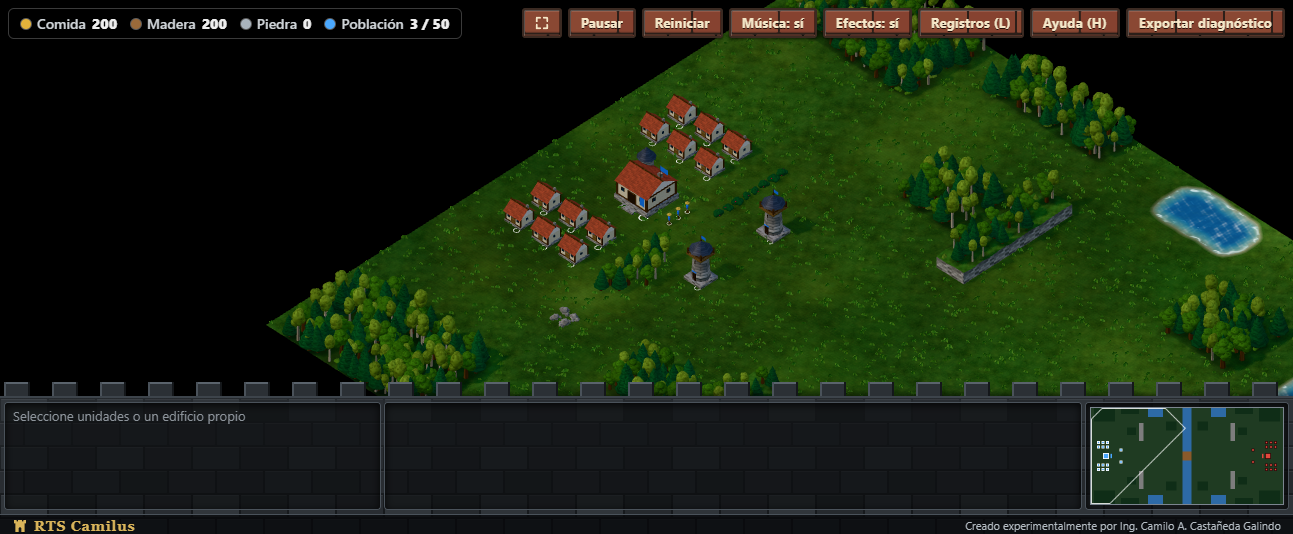
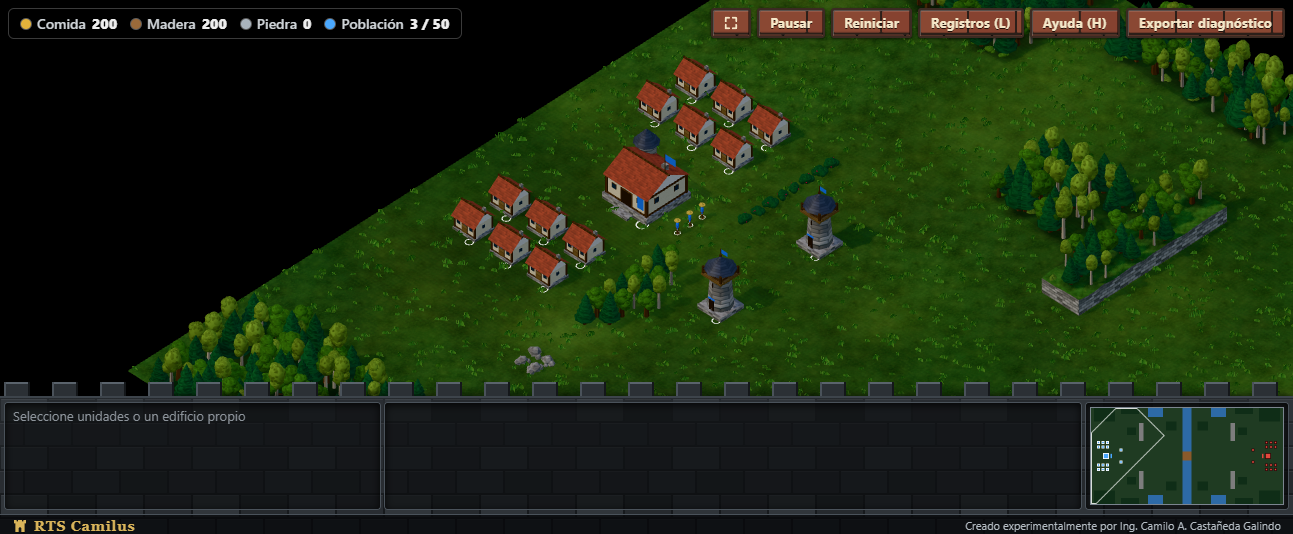
Etapa 8: zoom maximo 7, zoom inicial 3 y ataque/alcance en la ficha de seleccion

diff --git a/tests/unit/p8-identidad.test.ts b/tests/unit/p8-identidad.test.ts
@@ -7,7 +7,7 @@ import { createInitialState } from "../../src/core/state";
 import type { GameState } from "../../src/core/types";
 import { CameraRig, INITIAL_ZOOM, ZOOM_MAX, ZOOM_MIN } from "../../src/input/camera-rig";
 import { CURSOR_HOTSPOT, CURSOR_SIZE, cursorCss, cursorFor, cursorSvg, resolveRightClick, selectionCaps, type CursorKind } from "../../src/input/cursors";
-import { emptySelection } from "../../src/input/selection";
+import { combatText, describeSelection, emptySelection } from "../../src/input/selection";
 import { BRICK_BUTTON_TILE, BRICK_BUTTON_TONES, brickButtonSvg } from "../../src/ui/castle-bar";
 import { fullscreenLabel } from "../../src/ui/fullscreen";
 import { welcomeContent } from "../../src/ui/welcome";
@@ -51,6 +51,8 @@ describe("P8 vida de centros urbanos y torres", () => {
 describe("P8 cámara inicial", () => {
   it("arranca con zoom dentro de los límites, centrada en el centro urbano del jugador", () => {
     expect(INITIAL_ZOOM).toBeGreaterThan(1);
+    expect(INITIAL_ZOOM).toBe(3);
+    expect(ZOOM_MAX).toBeGreaterThan(5.5);
     expect(INITIAL_ZOOM).toBeLessThanOrEqual(ZOOM_MAX);
     const home = homeView(MAP_LAYOUT);
     const tc = MAP_LAYOUT.townCenters[0];
@@ -73,6 +75,40 @@ describe("P8 cámara inicial", () => {
     rig.reset({ x: 1, z: 1 });
     expect(rig.zoom).toBe(1);
     expect(ZOOM_MIN).toBeLessThan(1);
+  });
+});
+
+describe("P8 ataque y alcance en la ficha", () => {
+  const state = createInitialState(1);
+  const info = (id: number) => describeSelection(state, id, 0)!;
+
+  it("las unidades muestran el ataque y el alcance de su balance", () => {
+    const villager = state.units.find((u) => u.kind === "villager")!;
+    expect(info(villager.id).combat).toBe("Ataque 3 (solo defensa) · Alcance cuerpo a cuerpo");
+    const soldier = { ...villager, id: 9001, kind: "soldier" as const };
+    const archer = { ...villager, id: 9002, kind: "archer" as const };
+    const armed = { ...state, units: [...state.units, soldier, archer] } as GameState;
+    expect(describeSelection(armed, soldier.id, 0)!.combat).toBe("Ataque 10 · Alcance cuerpo a cuerpo");
+    expect(describeSelection(armed, archer.id, 0)!.combat).toBe("Ataque 8 · Alcance 5");
+  });
+
+  it("torre y centro urbano completos atacan; casa, cuartel, recursos y obras no", () => {
+    const own = (kind: string) => state.buildings.find((b) => b.owner === 0 && b.kind === kind)!;
+    expect(info(own("tower").id).combat).toBe("Ataque 8 · Alcance 5");
+    expect(info(own("townCenter").id).combat).toBe("Ataque 24 (3 × 8) · Alcance 5");
+    expect(info(own("house").id).combat).toBeNull();
+    const site = { ...own("tower"), id: 9003, complete: false, buildDone: 10 };
+    const building = { ...state, buildings: [...state.buildings, site] } as GameState;
+    expect(describeSelection(building, site.id, 0)!.combat).toBeNull();
+    expect(info(state.resourceNodes[0]!.id).combat).toBeNull();
+  });
+
+  it("el texto sale del balance y la ficha lo muestra bajo la vida", () => {
+    expect(combatText("archer")).toBe(`Ataque ${BALANCE.units.archer.damage} · Alcance ${BALANCE.units.archer.range}`);
+    expect(html).toContain("#info .info-stats");
+    const panel = readFileSync(new URL("../../src/ui/command-panel.ts", import.meta.url), "utf8");
+    expect(panel.indexOf('"vtext"')).toBeLessThan(panel.indexOf('"info-stats"'));
+    expect(panel.indexOf('"info-stats"')).toBeLessThan(panel.indexOf('"info-lines"'));
   });
 });
 

diff --git a/src/input/selection.ts b/src/input/selection.ts
@@ -1,4 +1,4 @@
-import { BALANCE } from "../content/balance";
+import { BALANCE, type UnitKind } from "../content/balance";
 import { activityOf, type Activity } from "../core/economy";
 import type { EntityId, GameState, PlayerId } from "../core/types";
 
@@ -105,6 +105,8 @@ export interface SelectionInfo {
   progress: number | null;
   /** Líneas de detalle sin repetir el nombre. */
   lines: string[];
+  /** Ataque y alcance ("Ataque 8 · Alcance 5"), o null si la entidad no ataca. */
+  combat: string | null;
   /** Clave del aspecto del modelo; cambia solo cuando el retrato debe redibujarse. */
   aspectKey: string;
   owner: PlayerId | null;
@@ -125,7 +127,7 @@ export function describeSelection(state: GameState, id: EntityId, player: Player
     return {
       id, type: "unit", kind: u.kind, name: UNIT_LABEL[u.kind], side, sideLabel: SIDE_LABEL[side],
       value: u.hp, max, ratio: ratioOf(u.hp, max), barLabel: `Vida ${u.hp} / ${max}`, barKind: "life", progress: null,
-      lines, aspectKey: `unit:${u.kind}:${u.owner}`, owner: u.owner,
+      lines, combat: combatText(u.kind, 1, u.kind === "villager"), aspectKey: `unit:${u.kind}:${u.owner}`, owner: u.owner,
     };
   }
   const b = state.buildings.find((x) => x.id === id);
@@ -140,7 +142,8 @@ export function describeSelection(state: GameState, id: EntityId, player: Player
     return {
       id, type: "building", kind: b.kind, name: BUILDING_LABEL[b.kind], side, sideLabel: SIDE_LABEL[side],
       value: b.hp, max: def.hp, ratio: ratioOf(b.hp, def.hp), barLabel: `Vida ${b.hp} / ${def.hp}`, barKind: "life", progress,
-      lines, aspectKey: `building:${b.kind}:${b.owner}:${progress === null ? "done" : Math.floor(progress * 20)}`, owner: b.owner,
+      lines, combat: def.weapon !== null && progress === null ? combatText(def.weapon, def.arrows ?? 1, false) : null,
+      aspectKey: `building:${b.kind}:${b.owner}:${progress === null ? "done" : Math.floor(progress * 20)}`, owner: b.owner,
     };
   }
   const n = state.resourceNodes.find((x) => x.id === id);
@@ -150,10 +153,21 @@ export function describeSelection(state: GameState, id: EntityId, player: Player
     return {
       id, type: "node", kind: n.kind, name: NODE_LABEL[n.kind], side: "nature", sideLabel: SIDE_LABEL.nature,
       value: n.remaining, max, ratio: ratioOf(n.remaining, max), barLabel: spent ? "Agotado" : `Restante ${n.remaining} / ${max}`, barKind: "resource", progress: null,
-      lines: [`Da ${RESOURCE_NAME[n.kind]}`], aspectKey: `node:${n.kind}:${n.kind === "wood" ? n.id % 3 : 0}:${spent ? "spent" : "full"}`, owner: null,
+      lines: [`Da ${RESOURCE_NAME[n.kind]}`], combat: null, aspectKey: `node:${n.kind}:${n.kind === "wood" ? n.id % 3 : 0}:${spent ? "spent" : "full"}`, owner: null,
     };
   }
   return null;
+}
+
+const num = (n: number): string => String(n).replace(".", ",");
+
+/** Ataque (por disparo, con `arrows` flechas) y alcance del arma de una unidad; null si no hace daño. */
+export function combatText(kind: UnitKind, arrows = 1, defenseOnly = false): string | null {
+  const def = BALANCE.units[kind];
+  if (def.damage <= 0) return null;
+  const attack = arrows > 1 ? `${def.damage * arrows} (${arrows} × ${def.damage})` : String(def.damage);
+  const range = def.range <= 1 ? "cuerpo a cuerpo" : num(def.range);
+  return `Ataque ${attack}${defenseOnly ? " (solo defensa)" : ""} · Alcance ${range}`;
 }
 
 function ratioOf(value: number, max: number): number {

diff --git a/index.html b/index.html
@@ -67,6 +67,8 @@
       #info .vbar i { display: block; height: 100%; width: 0; background: #4ade80; }
       #info .info-vital.work .vbar i { background: #d9b45a; }
       #info .vtext { display: block; margin-top: 2px; font-size: 12px; color: #d8dde1; white-space: nowrap; }
+      #info .info-stats { margin-bottom: 4px; font-size: 12px; color: #e6d7a8; white-space: nowrap; }
+      #info .info-stats[hidden] { display: none; }
       #info .info-lines { white-space: pre-line; color: #b9c0c6; font-size: 12px; }
       @media (max-height: 599px) { #info { padding: 5px 8px; line-height: 1.25; } #info .info-card { gap: 8px; } #info .info-name { font-size: 14px; } #info .info-side { margin: 1px 0 3px; } #info .info-vital { margin-bottom: 2px; } }
       #panel { box-sizing: border-box; display: flex; flex-direction: column; gap: 6px; padding: 8px 10px; overflow: auto; }
@@ -168,8 +170,8 @@
       <h2>Ayuda <button id="help-close" type="button">Cerrar</button></h2>
       <p style="margin:0 0 4px">Destruya el centro urbano rival antes de perder el propio. Partida máxima: 30 minutos (si ningún centro cae, es empate). «RTS Camilus» es un nombre provisional.</p>
       <ul>
-        <li><b>Cámara:</b> WASD o flechas, o lleve el cursor al borde de la vista; rueda para acercar o alejar (hasta 5,5×). La partida empieza con la vista acercada sobre su ciudad. Clic o arrastre en la miniatura (abajo a la derecha) para saltar a otro punto del mapa. F activa o quita la pantalla completa.</li>
-        <li><b>Selección:</b> clic o arrastre (solo unidades propias); Shift suma o quita; Esc limpia. La barra inferior muestra un retrato de lo seleccionado con su nombre, su bando (jugador, enemigo o naturaleza) y su barra de vida o de recurso restante.</li>
+        <li><b>Cámara:</b> WASD o flechas, o lleve el cursor al borde de la vista; rueda para acercar o alejar (hasta 7×). La partida empieza con la vista acercada sobre su ciudad. Clic o arrastre en la miniatura (abajo a la derecha) para saltar a otro punto del mapa. F activa o quita la pantalla completa.</li>
+        <li><b>Selección:</b> clic o arrastre (solo unidades propias); Shift suma o quita; Esc limpia. La barra inferior muestra un retrato de lo seleccionado con su nombre, su bando (jugador, enemigo o naturaleza), su barra de vida o de recurso restante y, si ataca, su ataque y alcance en celdas.</li>
         <li><b>Clic derecho:</b> suelo = mover; recurso = recolectar (aldeanos); enemigo = atacar (militares); obra propia = reanudar. El cursor anuncia la acción: hacha sobre un árbol, cesta sobre un arbusto, pico sobre una roca y espada sobre un enemigo (solo si la selección puede hacerlo).</li>
         <li><b>Construir:</b> con aldeanos seleccionados use la barra inferior (casa 50 madera, cuartel 150 madera, torre 300 piedra) y confirme con clic izquierdo. Si falta un recurso, su cifra se pone en rojo.</li>
         <li><b>Producir:</b> clic en un edificio propio para entrenar y ver o cancelar la cola.</li>

diff --git a/src/ui/command-panel.ts b/src/ui/command-panel.ts
@@ -34,6 +34,7 @@ interface InfoCard {
   vital: HTMLElement;
   vitalFill: HTMLElement;
   vitalText: HTMLElement;
+  stats: HTMLElement;
   work: HTMLElement;
   workFill: HTMLElement;
   lines: HTMLElement;
@@ -145,12 +146,14 @@ export class CommandPanel {
     const vital = el("div", "info-vital", data);
     const vitalFill = el("i", "", el("span", "vbar", vital));
     const vitalText = el("span", "vtext", vital);
+    const stats = el("div", "info-stats", data);
+    stats.hidden = true;
     const work = el("div", "info-vital work", data);
     const workFill = el("i", "", el("span", "vbar", work));
     work.hidden = true;
     const lines = el("div", "info-lines", data);
     const text = el("div", "info-text", infoRoot);
-    return { card, name, side, vital, vitalFill, vitalText, work, workFill, lines, text };
+    return { card, name, side, vital, vitalFill, vitalText, stats, work, workFill, lines, text };
   }
 
   private updateInfo(state: GameState, selection: Selection): void {
@@ -159,7 +162,7 @@ export class CommandPanel {
     const id = selection.inspected ?? (selection.units.size === 1 ? [...selection.units][0]! : null);
     const info = id === null ? null : describeSelection(state, id, HUMAN);
     if (info) {
-      const key = [info.id, info.name, info.side, info.barLabel, info.ratio.toFixed(3), info.progress?.toFixed(3) ?? "", info.lines.join("|")].join("~");
+      const key = [info.id, info.name, info.side, info.barLabel, info.ratio.toFixed(3), info.progress?.toFixed(3) ?? "", info.combat ?? "", info.lines.join("|")].join("~");
       if (key === this.infoKey) {
         this.onInfo?.(info);
         return;
@@ -176,6 +179,8 @@ export class CommandPanel {
       c.vitalFill.style.width = `${Math.round(info.ratio * 100)}%`;
       c.vitalFill.style.background = fill;
       c.vitalText.textContent = info.barLabel;
+      c.stats.hidden = info.combat === null;
+      c.stats.textContent = info.combat ?? "";
       c.work.hidden = info.progress === null;
       if (info.progress !== null) c.workFill.style.width = `${Math.round(info.progress * 100)}%`;
       c.lines.textContent = info.lines.join("\n");

diff --git a/tests/unit/p6-ui.test.ts b/tests/unit/p6-ui.test.ts
@@ -72,13 +72,13 @@ describe("P6 miniatura y cámara", () => {
     expect(minimapPoint(0, 0, 0, 0, 128, 64)).toBeNull();
   });
 
-  it("centerOn centra y respeta el límite del mapa; el zoom máximo es 5,5", () => {
+  it("centerOn centra y respeta el límite del mapa; el zoom máximo es 7", () => {
     const rig = new CameraRig(128, 64);
     rig.centerOn(100, 20);
     expect(rig).toMatchObject({ x: 100, z: 20 });
     rig.centerOn(500, -3);
     expect(rig).toMatchObject({ x: 128, z: 0 });
-    expect(ZOOM_MAX).toBe(5.5);
+    expect(ZOOM_MAX).toBe(7);
     rig.zoomBy(-1e6);
     expect(rig.zoom).toBe(ZOOM_MAX);
     rig.zoomBy(1e6);

diff --git a/src/input/camera-rig.ts b/src/input/camera-rig.ts
@@ -1,7 +1,7 @@
 export const ZOOM_MIN = 0.6;
-export const ZOOM_MAX = 5.5;
+export const ZOOM_MAX = 7;
 /** Zoom con que arranca la partida normal: encuadra la ciudad del jugador. */
-export const INITIAL_ZOOM = 2.2;
+export const INITIAL_ZOOM = 3;
 const PAN_SPEED = 30; // celdas/s con zoom 1
 
 export interface PanKeys {

diff --git a/README.md b/README.md
@@ -124,7 +124,10 @@ Botones superiores de ladrillo, con el botón de pantalla completa a la izquierd
 
 - **Identidad:** la pestaña se titula «RTS Camilus - Juego experimental» y usa como icono una torre dorada (`public/favicon.svg`, SVG sin recursos externos).
 - **Bienvenida:** aparece en cada carga normal con el objetivo, cinco consejos y los botones «Comenzar» y «Ver ayuda». La partida queda en pausa hasta pulsar uno de ellos (o Intro o Esc) y la IA ya carga mientras tanto. No se omite ni se recuerda; `?welcome=0` y las escenas `?fixture=` no la muestran. La ayuda (H) ahora empieza cerrada.
-- **Vista inicial:** la cámara arranca con zoom 2,2 centrada en el centro urbano del jugador, también tras reiniciar. Las escenas `?fixture=` conservan la cámara de siempre.
+- **Vista inicial:** la cámara arranca con zoom 3 centrada en el centro urbano del jugador, también tras reiniciar (zoom máximo 7). Las escenas `?fixture=` conservan la cámara de siempre.
+- **Ataque y alcance:** la ficha de la barra inferior muestra, bajo la vida, el ataque y el alcance de la unidad o el edificio seleccionado si ataca (por ejemplo, el centro urbano: ataque 24, tres flechas de 8, alcance 5).
+
+![Ficha con ataque y alcance del centro urbano](docs/images/etapa8-ficha-ataque.png)
 - **Pantalla completa:** botón y tecla F; el estado del botón sigue al del navegador (si Esc la cierra, se actualiza).
 - **Cursores de acción:** con aldeanos seleccionados, el cursor cambia a hacha sobre un árbol, cesta sobre un arbusto y pico sobre una roca; con militares, a espada sobre un enemigo. Solo aparece si el clic derecho haría esa acción con la selección actual. Son SVG generados por código y no se ven en las capturas.
 - **Botones de ladrillo:** mosaico SVG generado por código, texto crema con contraste mínimo de 4,5:1 y fila que se parte en varias líneas si la ventana es estrecha.
@@ -135,7 +138,7 @@ Botones superiores de ladrillo, con el botón de pantalla completa a la izquierd
 | Acción | Entrada |
 |---|---|
 | Pantalla completa | Tecla F o botón con icono de esquinas |
-| Cámara | WASD o flechas, o cursor en el borde de la pantalla (24 px, 1,5 veces más rápido); rueda para acercar o alejar (hasta 5,5 veces); clic o arrastre en la miniatura |
+| Cámara | WASD o flechas, o cursor en el borde de la pantalla (24 px, 1,5 veces más rápido); rueda para acercar o alejar (hasta 7 veces); clic o arrastre en la miniatura |
 | Registros técnicos | Tecla L o botón «Registros» |
 | Seleccionar | Clic o arrastre; Shift suma o quita; Esc limpia (el clic en un edificio, enemigo o recurso solo muestra su retrato e información) |
 | Ventana final | Tab recorre los botones, Intro reinicia, Esc cierra la ventana; el botón «Resultado» la reabre |
